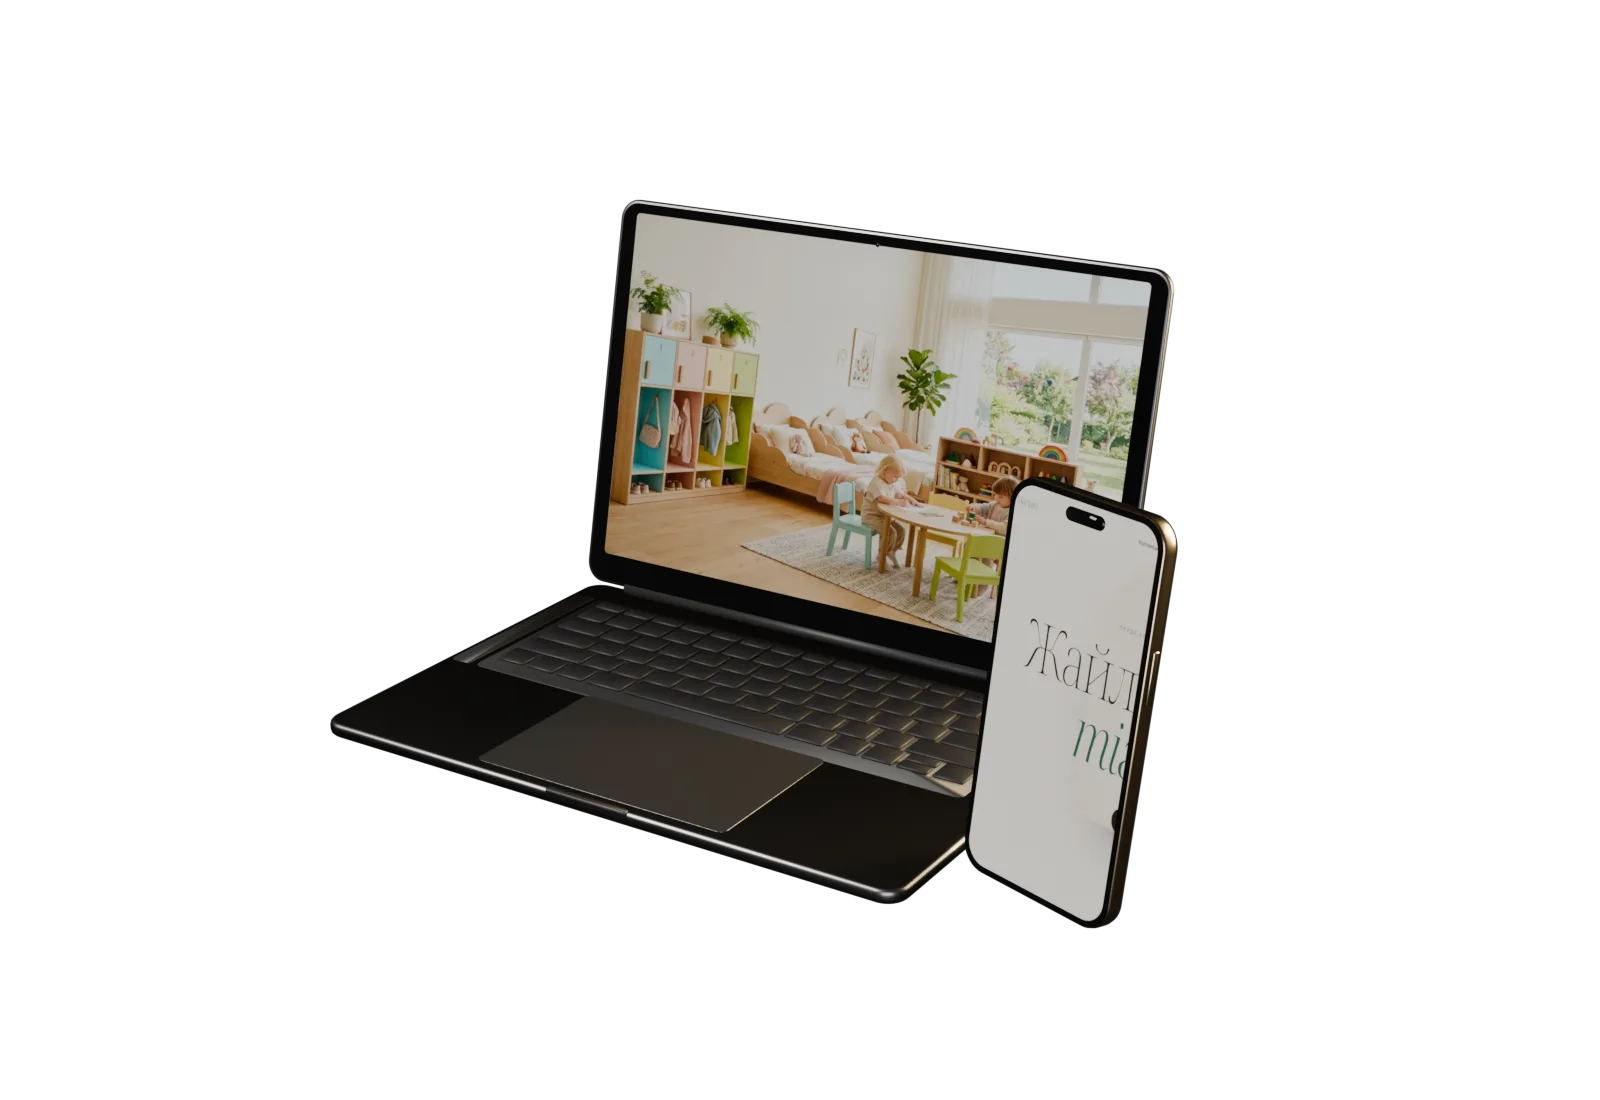
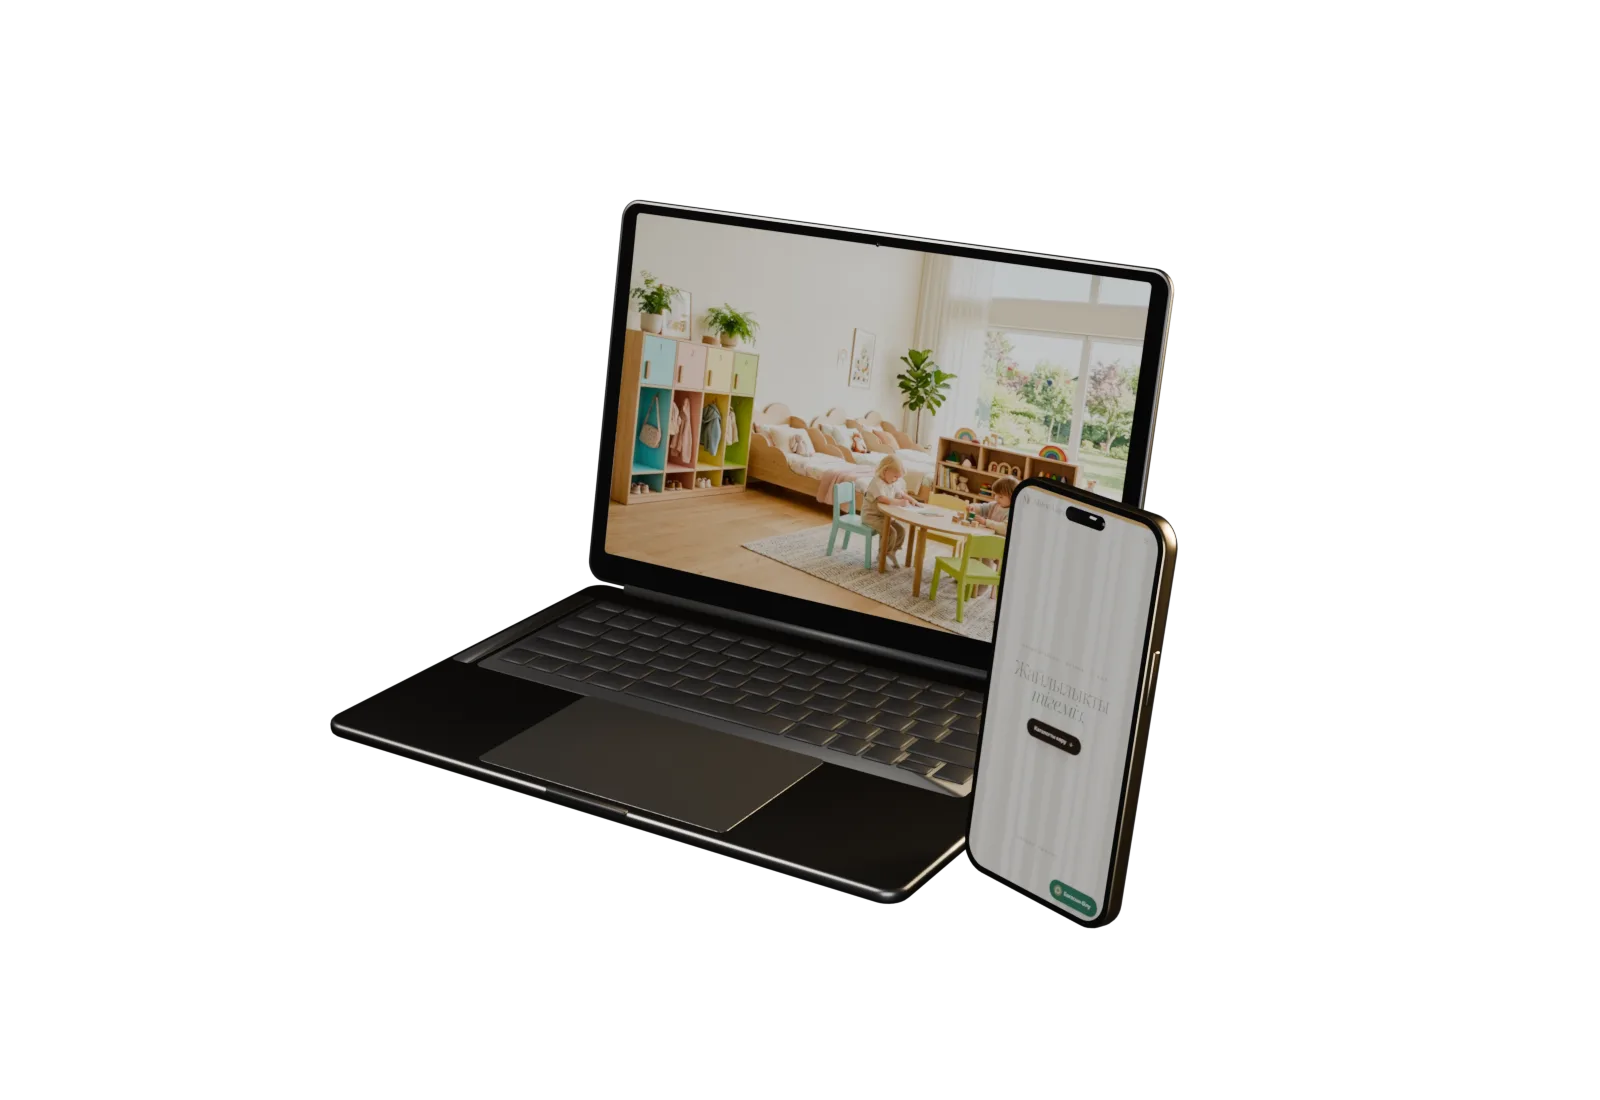
3D телефон экранына жобалардың нақты мобильді нұсқасы
- Әр жобаның 500px мобильді скриншоты түсірілді (11–48 KB WebP)
- Телефонда енді кесілген компьютерлік нұсқа емес, мобильді сайт көрінеді
- Heritage орнына Amanat Interior (мобильді нұсқасы дұрыс түседі)
- Постер жаңа телефон экранымен қайта рендерленді

Changed region(s): [[0.5938, 0.4327, 0.75, 0.8345]]

diff --git a/index.html b/index.html
@@ -772,12 +772,13 @@ document.getElementById('order').addEventListener('click',function(){
 <script type="module">
 const sec=document.getElementById('show');
 const P=[
-  ['DOS Мебель','Жиһаз фабрикасы · Алматы','dos_mebel_preview.webp','dos-mebel'],
-  ['Perde Mariam','Перде салоны · Астана','shot_perde_mariam.webp','perde.mariam'],
-  ['Luxe Furnitura','Онлайн дүкен','shot_luxe-furnitura.webp','luxe-furnitura'],
-  ['Printspace.kz','Полиграфия · Түркістан','shot_printspace-kz.webp','printspace-kz'],
-  ['LUXE Barbershop','Барбершоп · Кентау','shot_luxe-barbershop-kentau.webp','luxe-barbershop-kentau'],
-  ['Qazaqstan Heritage','Интерактивті карта','shot_qazaqstan-heritage.webp','qazaqstan-heritage']
+  /* name, meta, desktop shot (laptop), url slug, real mobile shot (phone) */
+  ['DOS Мебель','Жиһаз фабрикасы · Алматы','dos_mebel_preview.webp','dos-mebel','m_dos-mebel.webp'],
+  ['Perde Mariam','Перде салоны · Астана','shot_perde_mariam.webp','perde.mariam','m_perde-mariam.webp'],
+  ['Luxe Furnitura','Онлайн дүкен','shot_luxe-furnitura.webp','luxe-furnitura','m_luxe-furnitura.webp'],
+  ['Printspace.kz','Полиграфия · Түркістан','shot_printspace-kz.webp','printspace-kz','m_printspace-kz.webp'],
+  ['LUXE Barbershop','Барбершоп · Кентау','shot_luxe-barbershop-kentau.webp','luxe-barbershop-kentau','m_luxe-barbershop.webp'],
+  ['Amanat Interior','Интерьер · Астана','shot_amanat_interior.webp','amanat_interior','m_amanat-interior.webp']
 ];
 const $=id=>document.getElementById(id);
 const clamp=(v,a=0,b=1)=>Math.min(b,Math.max(a,v));
@@ -854,12 +855,12 @@ async function init(){
   }
   let flash=0;
   async function show(i){
-    const [a,b]=await Promise.all([tex(P[i][2],1280,800),tex(P[i][2],420,880,true)]);
+    const [a,b]=await Promise.all([tex(P[i][2],1280,800),tex(P[i][4],540,1170,true)]);
     if(i!==idx)return;
     lapMat.map=a;phMat.map=b;lapMat.needsUpdate=phMat.needsUpdate=true;flash=1;
   }
   onIndex=show;show(idx);
-  P.forEach((p,i)=>setTimeout(()=>{tex(p[2],1280,800);tex(p[2],420,880,true)},800+i*300));
+  P.forEach((p,i)=>setTimeout(()=>{tex(p[2],1280,800);tex(p[4],540,1170,true)},800+i*300));
 
   /* size */
   function size(){const w=stage.clientWidth,h=stage.clientHeight;renderer.setSize(w,h,false);cam.aspect=w/h;cam.updateProjectionMatrix()}
